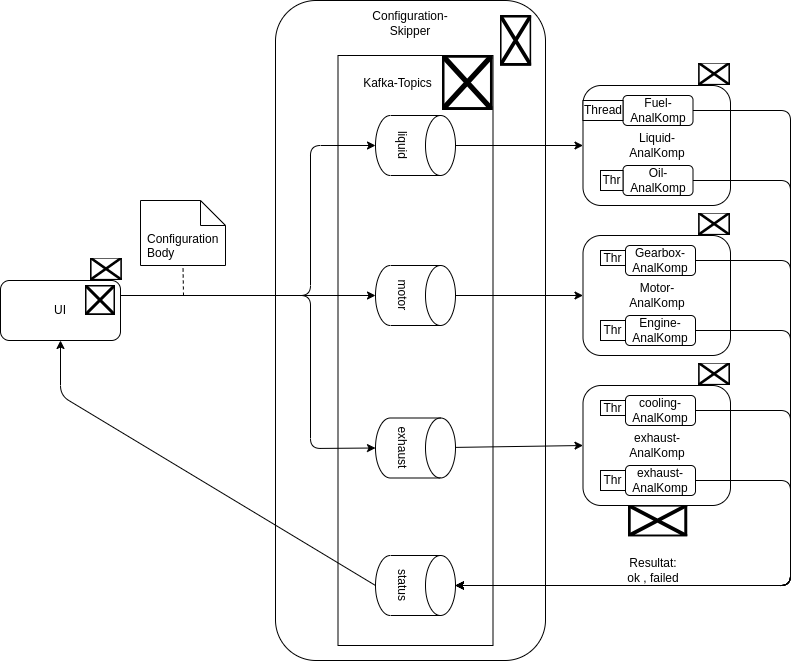
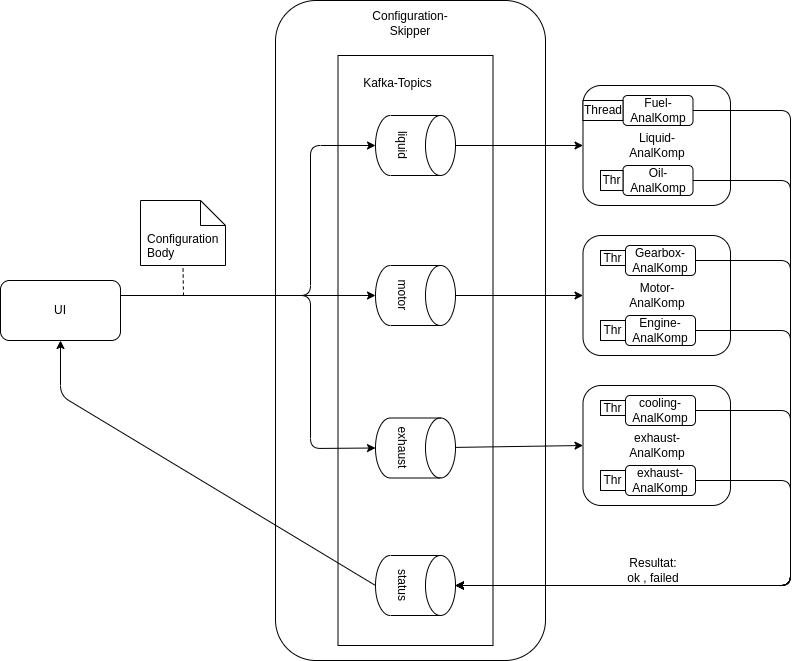
Update: Finishing touches. Diagams

diff --git a/alg_components/exhaust_analyzer/src/main/kotlin/de/wirschiffendas/motor_analyzser/MotorAnalyzserApplication.kt b/alg_components/exhaust_analyzer/src/main/kotlin/de/wirschiffendas/motor_analyzser/MotorAnalyzserApplication.kt
@@ -22,6 +22,20 @@ class MessageController() {
 
     @GetMapping("/healthCheck") fun test() = "I am alive!"
 
+    @GetMapping("/startConsumingKafka")
+    fun startConsumingKafka(): ResponseEntity<String> {
+        logger.info("Starting kafka consumer.")
+
+        // Init KafkaMessanger
+        val kafkaMessanger = KafkaMessanger()
+
+        // Init Analyzer
+        val analyser = ExhaustAnalyzer(kafkaMessanger::produce_statusmessage)
+        kafkaMessanger.consume(topic = "ooka_jonasweber_exhaust", analyser::executeAnalysis)
+
+        return ResponseEntity("Kafka Consumer running.", HttpStatus.OK)
+    }
+
     @GetMapping("/simulateNewConfig")
     fun startProducingKafka(): ResponseEntity<String> {
         logger.info("Started Kafka producer.")
@@ -39,19 +53,5 @@ class MessageController() {
         kafkaMessanger.produceTestConfig(config_message.toString())
 
         return ResponseEntity("Kafka Producer executed.", HttpStatus.OK)
-    }
-
-    @GetMapping("/startConsumingKafka")
-    fun startConsumingKafka(): ResponseEntity<String> {
-        logger.info("Starting kafka consumer.")
-
-        // Init KafkaMessanger
-        val kafkaMessanger = KafkaMessanger()
-
-        // Init Analyzer
-        val analyser = ExhaustAnalyzer(kafkaMessanger::produce_statusmessage)
-        kafkaMessanger.consume(topic = "ooka_jonasweber_exhaust", analyser::executeAnalysis)
-
-        return ResponseEntity("Kafka Consumer running.", HttpStatus.OK)
     }
 }

diff --git a/README.md b/README.md
@@ -31,7 +31,7 @@ Florian Weber & Thomas Jonas
 - [x] Anforderungen durchgehen
 - [ ] Alle Technologien verstehen. (Austauschen)
 - [ ] Diskutieren: Crnkovic Komponentenmodell Framework/ MS Taxonomie anwenden?
-- [ ] Arch Smell und Anti Pattern: 5 priorisierte, davon 3 umgesetzte Loesungen aufzeigen
+- [x] Arch Smell und Anti Pattern: 5 priorisierte, davon 3 umgesetzte Loesungen aufzeigen
   - Erste Sammlung:
     - Independent deployability
     - Too many standards
@@ -47,8 +47,8 @@ Florian Weber & Thomas Jonas
 **HIGH-LEVEL**
 
 - [x] **4: Modellierung MS Architektur**
-- [ ] **5: Umsetzung Microservices**
-- [ ] **6.1: Erweiterung**
+- [x] **5: Umsetzung Microservices**
+- [x] **6.1: Erweiterung**
     
     Message/Queue (Kafka), Containerization (Docker), Circuit Breaker (Resilijence4j), FaaS (Knative)
 - [ ] **Persistierung**
@@ -57,11 +57,12 @@ Florian Weber & Thomas Jonas
 
 **Praesentation: (20 min)**
 
-- [ ] Fachliche Anforderung (Use Cases)
+- [x] Fachliche Anforderung (Use Cases)
 - [ ] Software-Architektur - 4-Sichtenmodell
   - [ ] UML
-  - [ ] Entwurfsentscheidungen kommentieren (arc42-template als Orientierung)
-- [ ] Code Walkthrough (relevante Passagen vorbereiten)
+  - [x] Entwurfsentscheidungen kommentieren (arc42-template als Orientierung)
+- [x] Code Walkthrough (relevante Passagen vorbereiten)
+  - [x] Thomas Teil
 - [ ] Demonstration des Prototypen
 - [ ] Fazit: Lessons Learned, Ausblick, aktuelle Restriktionen
 
@@ -100,7 +101,35 @@ Beispielhaft:
 
 ## Deployment
 
-- Wie startet man das Projekt? ggf. Scripte schreiben.
+0. Connect to HBRS-VPN to enable access to the kafka-cluster.
+1. Execute services in seperate shells/processes.
+2. Start kafka-consumer in each algorithm component.
+3. Navigate to GUI and start the analysis.
+
+
+1. Start services
+
+```bash
+# In each alg_comp directory run:
+./gradlew bootRun
+
+# Deploy analysis GUI
+bash ./mvnw
+
+```
+
+2. 
+
+To start the kafka-consumer in each algorithm component,\
+their `/startConsuming`-endpoint has to be called explicitly.
+
+```bash
+# Check if server is up
+curl 'http://localhost:8081/healthCheck'
+
+# Start consuming messages from kafka topic
+curl 'http://localhost:8081/startConsumingKafka'
+```
 
 
 ## Lessons learned
